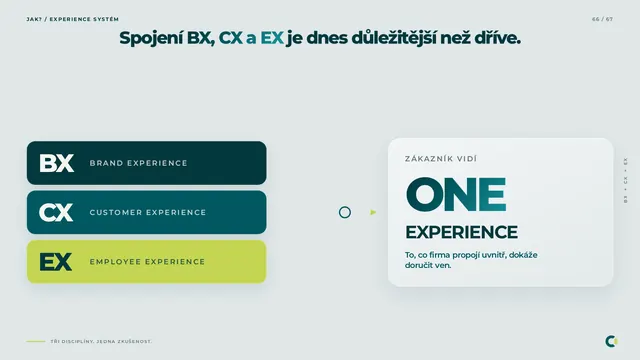
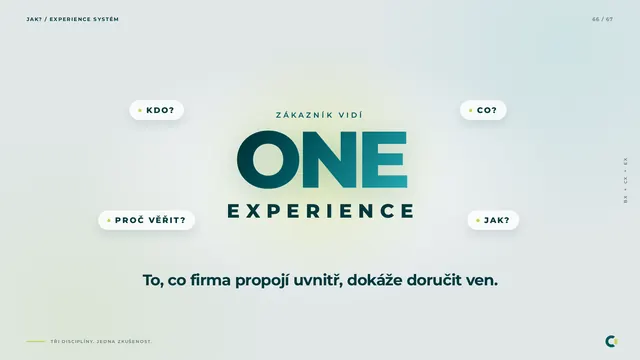
Slide 66: ONE EXPERIENCE ending on the light deck background, now the default (?ending=a = previous)

diff --git a/src/styles/finale-b.css b/src/styles/finale-b.css
@@ -1,68 +1,74 @@
-/* Slide 66 · alternative ending (?ending=b) */
+/* Slide 66 · closing "ONE EXPERIENCE" (default; ?ending=a = previous version) */
 .scene.fb-stage {
   overflow: hidden;
   background:
-    radial-gradient(ellipse 60% 55% at 50% 52%, rgba(46, 180, 188, 0.18), transparent 70%),
-    radial-gradient(circle at 12% 88%, rgba(195, 213, 82, 0.08), transparent 30%),
-    linear-gradient(180deg, var(--dark) 0%, var(--dark-2) 100%);
+    radial-gradient(ellipse 55% 50% at 50% 50%, rgba(255, 255, 255, 0.7), transparent 70%),
+    radial-gradient(circle at 12% 88%, rgba(195, 213, 82, 0.12), transparent 32%),
+    radial-gradient(circle at 88% 12%, rgba(46, 180, 188, 0.1), transparent 30%),
+    var(--bg);
 }
+.fb-cue-anchor { position: absolute; width: 0; height: 0; }
 .fb-glow {
   position: absolute; left: 560px; top: 100px; width: 800px; height: 800px; border-radius: 50%;
-  background: radial-gradient(circle, rgba(195, 213, 82, 0.28) 0%, rgba(195, 213, 82, 0.08) 38%, transparent 68%);
+  background: radial-gradient(circle, rgba(195, 213, 82, 0.36) 0%, rgba(195, 213, 82, 0.12) 40%, transparent 68%);
   pointer-events: none;
 }
 .fb-title {
   position: absolute; left: 0; right: 0; top: 136px; text-align: center;
-  font-size: 64px; line-height: 1.08; letter-spacing: -0.05em; color: var(--paper);
+  font-size: 64px; line-height: 1.08; letter-spacing: -0.05em; color: var(--text-deep);
 }
-.fb-mark { color: var(--lime); }
+.fb-mark {
+  background: var(--text-gradient); -webkit-background-clip: text; background-clip: text; color: transparent;
+}
 .fb-svg { position: absolute; inset: 0; width: 1920px; height: 1080px; pointer-events: none; }
 .fb-orb {
   position: absolute; border-radius: 50%;
   display: grid; place-content: center; text-align: center; gap: 10px;
-  background: linear-gradient(160deg, rgba(255, 255, 255, 0.16), rgba(255, 255, 255, 0.04));
-  border: 1px solid rgba(255, 255, 255, 0.28);
-  box-shadow: 0 30px 70px rgba(0, 0, 0, 0.28), inset 0 1px 0 rgba(255, 255, 255, 0.35);
+  background: linear-gradient(160deg, rgba(255, 255, 255, 0.88), rgba(255, 255, 255, 0.5));
+  border: 1px solid rgba(255, 255, 255, 0.9);
+  box-shadow: 0 28px 60px rgba(3, 56, 61, 0.14), inset 0 1px 0 rgba(255, 255, 255, 0.9);
   backdrop-filter: blur(18px) saturate(1.3);
   -webkit-backdrop-filter: blur(18px) saturate(1.3);
-  color: var(--paper);
+  color: var(--text-deep);
 }
 .fb-orb::before {
-  content: ""; position: absolute; inset: 18px; border-radius: 50%;
-  border: 2px solid currentColor; opacity: 0.35;
+  content: ""; position: absolute; inset: 16px; border-radius: 50%;
+  border: 3px solid var(--ring, var(--teal)); opacity: 0.55;
 }
-.fb-orb.is-lime { color: var(--lime); }
-.fb-orb.is-teal { color: #7ed8dd; }
-.fb-orb.is-deep { color: var(--paper); }
-.fb-orb-k { font-size: 92px; font-weight: 800; letter-spacing: -0.05em; line-height: 1; }
-.fb-orb-t { font-size: 17px; font-weight: 700; letter-spacing: 0.16em; text-transform: uppercase; color: rgba(244, 246, 241, 0.78); max-width: 180px; margin: 0 auto; line-height: 1.3; }
+.fb-orb.is-deep { --ring: var(--text-deep); color: var(--text-deep); }
+.fb-orb.is-teal { --ring: #2eb4bc; color: var(--teal); }
+.fb-orb.is-lime { --ring: var(--lime); color: var(--text-deep); }
+.fb-orb.is-lime::after {
+  content: ""; position: absolute; inset: 0; border-radius: 50%;
+  background: radial-gradient(circle at 50% 30%, rgba(195, 213, 82, 0.32), transparent 65%); pointer-events: none;
+}
+.fb-orb-k { position: relative; z-index: 1; font-size: 92px; font-weight: 800; letter-spacing: -0.05em; line-height: 1; }
+.fb-orb-t { position: relative; z-index: 1; font-size: 17px; font-weight: 700; letter-spacing: 0.16em; text-transform: uppercase; color: var(--muted); max-width: 180px; margin: 0 auto; line-height: 1.3; }
 .fb-wave {
   position: absolute; width: 320px; height: 320px; border-radius: 50%;
-  border: 3px solid var(--lime); box-shadow: 0 0 40px rgba(195, 213, 82, 0.5), inset 0 0 40px rgba(195, 213, 82, 0.3);
+  border: 4px solid var(--lime);
+  box-shadow: 0 0 36px rgba(195, 213, 82, 0.55), inset 0 0 36px rgba(195, 213, 82, 0.35);
   pointer-events: none; opacity: 0;
 }
 .fb-core { position: absolute; width: 920px; height: 380px; display: grid; place-content: center; text-align: center; }
-.fb-core-cap { color: var(--lime); letter-spacing: 0.32em; }
+.fb-core-cap { color: var(--teal); letter-spacing: 0.32em; }
 .fb-one {
   font-size: 240px; font-weight: 800; line-height: 0.92; letter-spacing: -0.06em; margin-top: 8px;
-  background: linear-gradient(120deg, #ffffff 0%, #e4f0a0 45%, var(--lime) 100%);
-  -webkit-background-clip: text; background-clip: text; color: transparent;
-  filter: drop-shadow(0 12px 40px rgba(195, 213, 82, 0.25));
+  background: var(--text-gradient); -webkit-background-clip: text; background-clip: text; color: transparent;
+  filter: drop-shadow(0 14px 36px rgba(0, 88, 96, 0.18));
 }
-.fb-exp { font-size: 58px; font-weight: 800; letter-spacing: 0.32em; color: var(--paper); margin-top: 10px; padding-left: 0.32em; }
-.fb-chip {
-  position: absolute; transform: translate(-50%, -50%);
-}
+.fb-exp { font-size: 58px; font-weight: 800; letter-spacing: 0.32em; color: var(--text-deep); margin-top: 10px; padding-left: 0.32em; }
+.fb-chip { position: absolute; transform: translate(-50%, -50%); }
 .fb-chip span {
   display: inline-block; padding: 14px 26px; border-radius: 999px; white-space: nowrap;
-  font-size: 24px; font-weight: 800; letter-spacing: 0.16em; color: var(--paper);
-  background: rgba(255, 255, 255, 0.08); border: 1px solid rgba(255, 255, 255, 0.22);
+  font-size: 24px; font-weight: 800; letter-spacing: 0.16em; color: var(--text-deep);
+  background: rgba(255, 255, 255, 0.78); border: 1px solid rgba(255, 255, 255, 0.95);
+  box-shadow: 0 14px 30px rgba(3, 56, 61, 0.1);
   backdrop-filter: blur(14px); -webkit-backdrop-filter: blur(14px);
 }
 .fb-chip span::before { content: ""; display: inline-block; width: 10px; height: 10px; border-radius: 50%; background: var(--lime); margin-right: 14px; vertical-align: 2px; }
 .fb-line {
   position: absolute; left: 160px; right: 160px; top: 812px; text-align: center;
-  font-size: 46px; font-weight: 700; letter-spacing: -0.03em; line-height: 1.2; color: var(--paper);
+  font-size: 46px; font-weight: 700; letter-spacing: -0.03em; line-height: 1.2; color: var(--text-deep);
 }
 .fb-word { display: inline-block; margin: 0 0.14em; }
-.fb-cue-anchor { position: absolute; width: 0; height: 0; }

diff --git a/src/scenes/act4/FinaleB.tsx b/src/scenes/act4/FinaleB.tsx
@@ -5,13 +5,13 @@ import { SlideChrome } from "../../components/SlideChrome";
 import { EASE } from "../../engine/motion";
 
 /**
- * Alternative closing for slide 66 (bxcxex), only with `?ending=b` in the URL.
+ * Closing for slide 66 (bxcxex) — the default. `?ending=a` shows the previous version.
  * Step 0: three frosted orbs (BX, CX, EX) on one orbit.
  * Step 1: they converge and merge into ONE EXPERIENCE; a single lime shockwave,
  *         the four chapter questions settle around it, the closing line appears.
  */
-export const ENDING_B =
-  typeof window !== "undefined" && new URLSearchParams(window.location.search).get("ending") === "b";
+export const ENDING_A =
+  typeof window !== "undefined" && new URLSearchParams(window.location.search).get("ending") === "a";
 
 const CENTER = { x: 960, y: 640 };
 const CORE = { x: 960, y: 500 };
@@ -125,7 +125,7 @@ export function BxCxExFinale({ step, reduced }: SceneProps) {
   }, [beat, reduced]);
 
   return (
-    <div ref={root} className={`scene is-dark fb-stage${beat ? " is-one" : ""}`}>
+    <div ref={root} className={`scene fb-stage${beat ? " is-one" : ""}`}>
       <SlideChrome
         kicker="JAK? / EXPERIENCE SYSTÉM"
         page="66 / 67"
@@ -141,7 +141,7 @@ export function BxCxExFinale({ step, reduced }: SceneProps) {
         je dnes důležitější než dříve.
       </div>
       <svg className="fb-svg" viewBox="0 0 1920 1080" aria-hidden="true">
-        <circle data-fb-orbit cx={CENTER.x} cy={CENTER.y} r="205" fill="none" stroke="var(--lime)" strokeWidth="2" strokeOpacity="0.7" />
+        <circle data-fb-orbit cx={CENTER.x} cy={CENTER.y} r="205" fill="none" stroke="var(--lime)" strokeWidth="3" strokeOpacity="0.9" />
       </svg>
       {ORBS.map((orb) => (
         <div

diff --git a/src/scenes/act4/index.tsx b/src/scenes/act4/index.tsx
@@ -1,7 +1,7 @@
 import type { SceneProps } from "../../deck/types";
 import { SlideChrome } from "../../components/SlideChrome";
 import { GlassStats } from "../../components/GlassStats";
-import { BxCxExFinale, ENDING_B } from "./FinaleB";
+import { BxCxExFinale, ENDING_A } from "./FinaleB";
 
 const ORCH_TITLE = [
   ["Firma", "vidí", "spojení."],
@@ -75,8 +75,8 @@ export function Orch({ step, reduced }: SceneProps) {
 export { Channels, Mortgage } from "./ThenNow";
 
 export function BxCxEx({ step, reduced, sceneId }: SceneProps) {
-  // Alternative closing, opt-in only via ?ending=b (the default stays below).
-  if (ENDING_B) return <BxCxExFinale step={step} reduced={reduced} sceneId={sceneId} />;
+  // Default closing is BxCxExFinale; ?ending=a keeps the previous version below.
+  if (!ENDING_A) return <BxCxExFinale step={step} reduced={reduced} sceneId={sceneId} />;
   const parts = [
     { k: "BX", t: "BRAND EXPERIENCE", bg: "var(--text-deep)", fg: "var(--paper)" },
     { k: "CX", t: "CUSTOMER EXPERIENCE", bg: "var(--teal)", fg: "var(--paper)" },

diff --git a/README.md b/README.md
@@ -73,3 +73,4 @@ Live: https://kajasko.github.io/experience-summit-keynote/
 - Phones: tap the right two thirds = next, left third = previous; swipe left/right also works. In landscape the dock sits on the right edge.
 - Overview thumbnails: `npm run export:thumbs` writes one WebP per visual slide to `public/assets/thumbs/<first step id>.webp` (final built state of the slide).
 - Slides vs steps: a step is one click; a slide is one visual composition (a scene's first step plus any `SLIDE_BREAKS` in `src/deck/deck.ts`). Slide numbers, the "NN / total" page counter, the dock counter and the overview tiles all derive from `slides` in `deck.ts`; the `page` prop on `SlideChrome` only toggles whether the counter is shown.
+- Closing slide 66: `BxCxExFinale` (src/scenes/act4/FinaleB.tsx) is the default; add `?ending=a` to the URL for the previous BX/CX/EX version.
